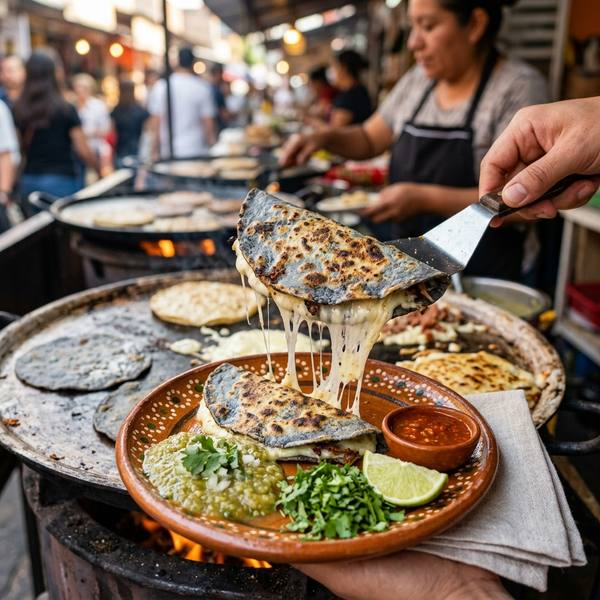
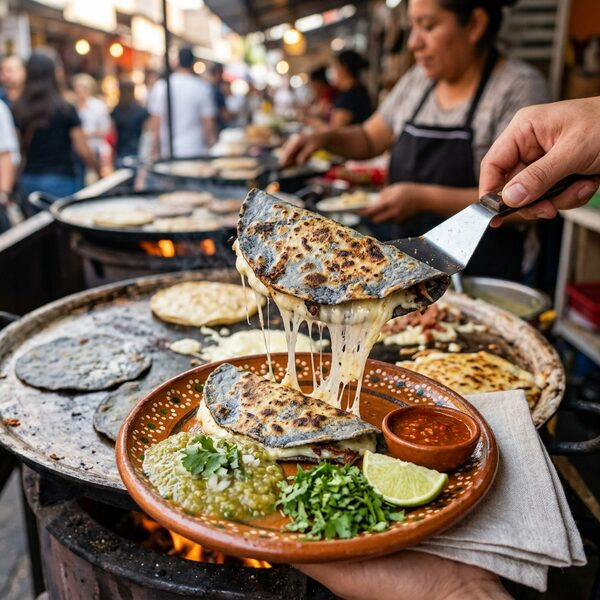
Ocultar sopes, molcajete y taquiza (display:none) - Peter los venderá luego

Changed region(s): [[0.57, 0.45, 0.6, 0.48], [0.33, 0.66, 0.36, 0.69]]

diff --git a/menu/index.html b/menu/index.html
@@ -443,7 +443,7 @@
 
 <!-- DE LA CALLE -->
 <section id="calle">
-  <div class="cat-head"><span class="icon">🌽</span><div><h2>De la Calle</h2><div class="cat-desc">Flautas · Quesadillas · Sopes</div></div></div>
+  <div class="cat-head"><span class="icon">🌽</span><div><h2>De la Calle</h2><div class="cat-desc">Flautas · Quesadillas</div></div></div>
 
   <h3 style="color:var(--crema); margin:1.5rem 0 .8rem;">Flautas <span style="font-size:.8rem; color:#a8a29e; font-weight:400;">— Tortillas doradas y muy crujientes con crema, queso y lechuga</span></h3>
   <div class="grid">
@@ -497,15 +497,15 @@
     </article>
   </div>
 
-  <h3 style="color:var(--crema); margin:2rem 0 .8rem;">Sopes <span style="font-size:.8rem; color:#a8a29e; font-weight:400;">— Base de masa gruesa con bordes pellizcados, frita y crujiente</span></h3>
+  <h3 style="color:var(--crema); margin:2rem 0 .8rem; display:none;">Sopes <span style="font-size:.8rem; color:#a8a29e; font-weight:400;">— Base de masa gruesa con bordes pellizcados, frita y crujiente</span></h3>
   <div class="grid">
     <article class="dish">
-      <img src="img/sope-natural.jpg" alt="Sope Natural" loading="lazy">
-      <div class="info"><h3>Natural</h3><p>Base de masa crujiente con frijoles refritos, lechuga, crema, queso fresco y salsa. Antojito clásico.</p><div class="price-tag">Precio: $6.49</div></div>
+      <img src="img/sope-natural.jpg" alt="Sope Natural" loading="lazy" style="display:none">
+      <div class="info" style="display:none"><h3>Natural</h3><p>Base de masa crujiente con frijoles refritos, lechuga, crema, queso fresco y salsa. Antojito clásico.</p><div class="price-tag">Precio: $6.49</div></div>
     </article>
     <article class="dish">
-      <img src="img/sope-proteina.jpg" alt="Sope con Proteína" loading="lazy">
-      <div class="info"><h3>Con Proteína</h3><p>Sope con frijoles, lechuga, crema y queso, más el guisado de tu elección: bistec, pastor, chorizo o pollo.</p><div class="price-tag">Precio: $8.50</div></div>
+      <img src="img/sope-proteina.jpg" alt="Sope con Proteína" loading="lazy" style="display:none">
+      <div class="info" style="display:none"><h3>Con Proteína</h3><p>Sope con frijoles, lechuga, crema y queso, más el guisado de tu elección: bistec, pastor, chorizo o pollo.</p><div class="price-tag">Precio: $8.50</div></div>
     </article>
   </div>
 </section>
@@ -537,7 +537,7 @@
 <section id="compas">
   <div class="cat-head"><span class="icon">🍻</span><div><h2>Con los Compas</h2><div class="cat-desc">Para compartir</div></div></div>
   <div class="grid">
-    <article class="dish">
+    <article class="dish" style="display:none">
       <img src="img/molcajete.jpg" alt="Molcajete" loading="lazy">
       <div class="info">
         <h3>Molcajete</h3>
@@ -553,7 +553,7 @@
         <div class="price-tag">Precio: $14.25</div>
       </div>
     </article>
-    <article class="dish">
+    <article class="dish" style="display:none">
       <img src="img/taquiza.jpg" alt="Taquiza" loading="lazy">
       <div class="info">
         <h3>Taquiza</h3>
